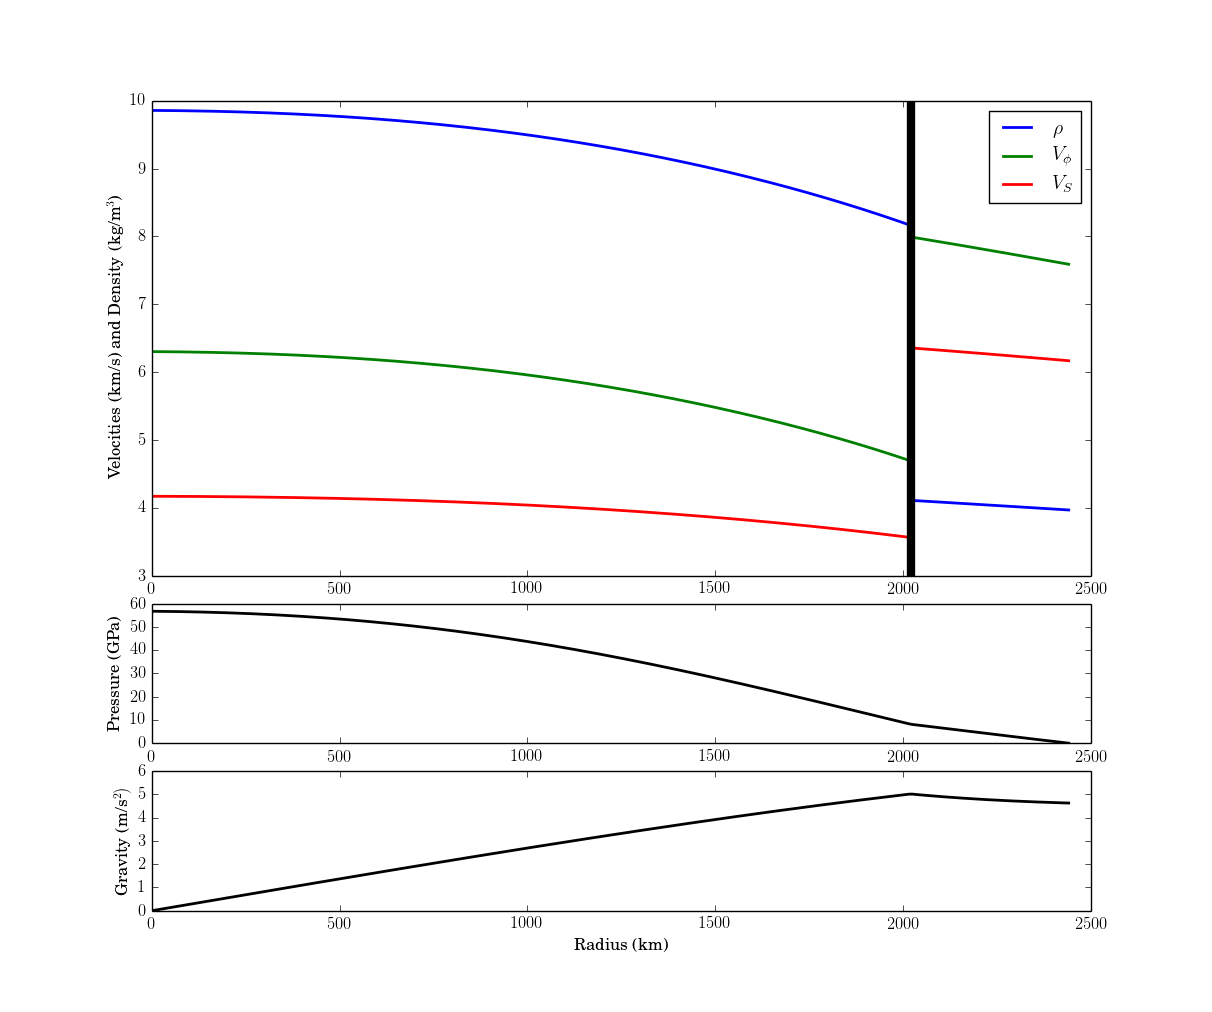
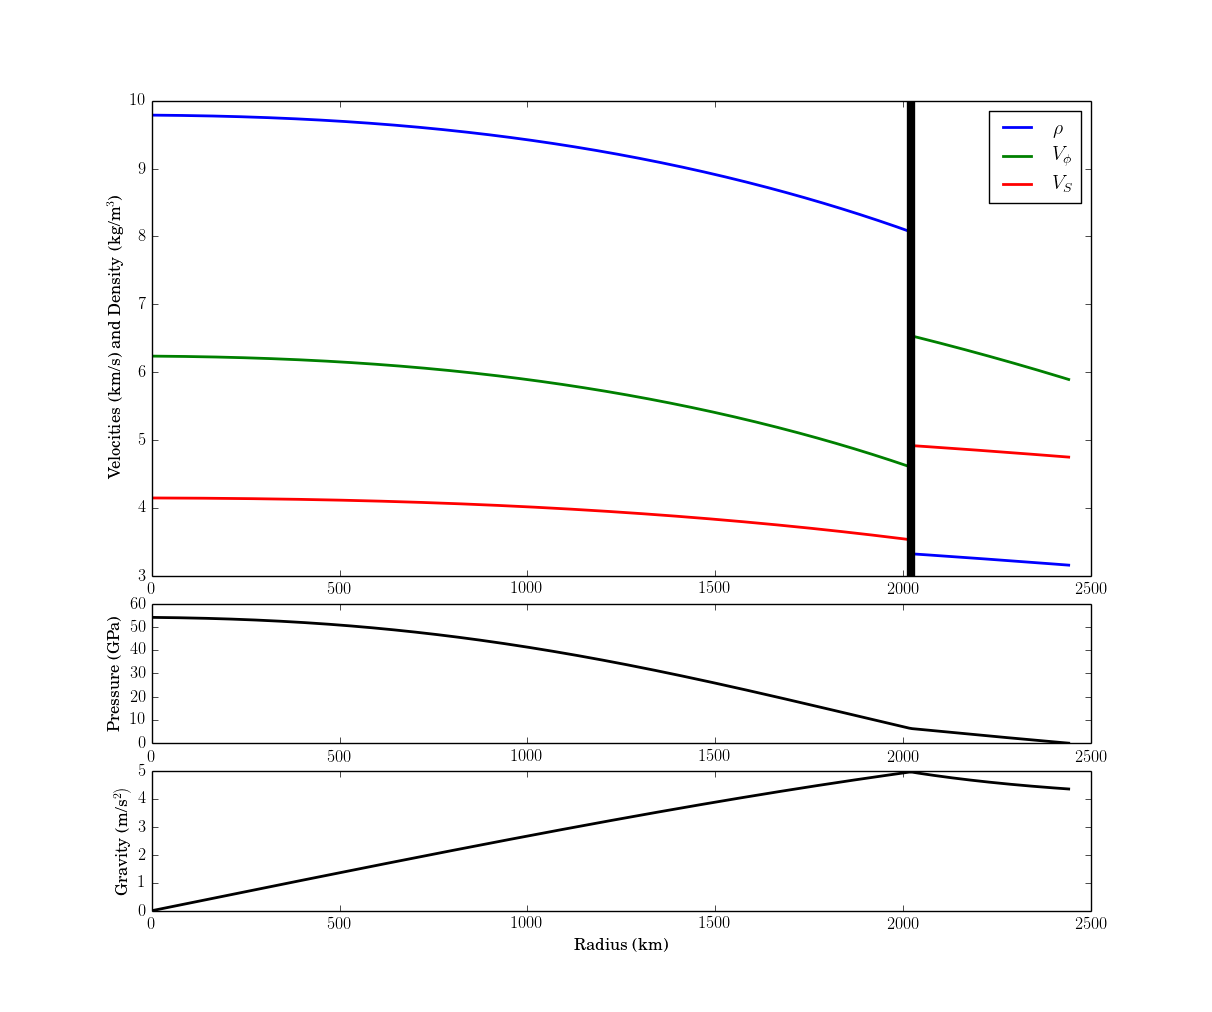
Change to a more reasonable mineralogy.

diff --git a/examples/example_build_planet.py b/examples/example_build_planet.py
@@ -95,10 +95,10 @@ if __name__ == "__main__":
 
             #The planet will be represented by a two layer model, mantle and core.  
             #The top layer will be a composite of 80% perovskite and 20% periclase.
-            amount_perovskite = 0.8
-            self.mantle = burnman.Composite( [amount_perovskite, 1.0-amount_perovskite],
-                                             [minerals.SLB_2011.mg_perovskite(),
-                                              minerals.SLB_2011.periclase()] )
+            amount_olivine = 0.8
+            self.mantle = burnman.Composite( [amount_olivine, 1.0-amount_olivine],
+                                             [minerals.SLB_2011.forsterite(),
+                                              minerals.SLB_2011.enstatite()] )
              #The core will be represented by solid iron.
             self.core = iron() 
 
